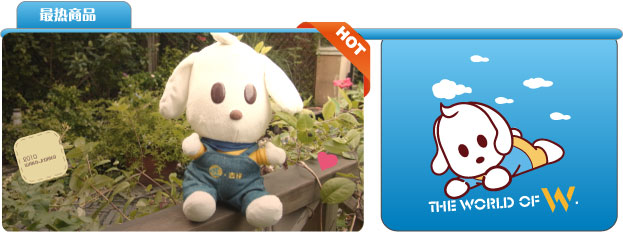
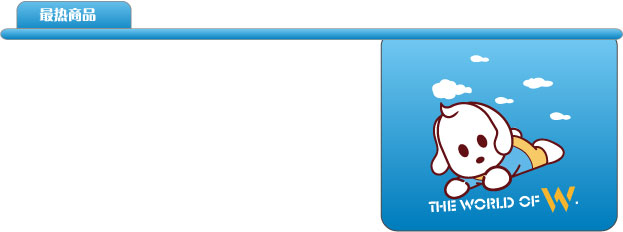
增加首页最热商品调用

diff --git a/templets/default/index.htm b/templets/default/index.htm
@@ -71,10 +71,15 @@
 		</div>
 		<div class="clear"></div>
 		<div id="hot">
-			<img src="{dede:global.cfg_templets_skin/}/images/xt_index_hot.jpg" width="623" height="232" alt="Xt Index Hot">
+			<div class="hotpic">
+				<a href="/plus/list.php?tid=2">{dede:arclist idlist='2' imgwidth='362' imgheight='200'}[field:image /]{/dede:arclist}</a>
+			</div>
+			<div class="hotico">
+				<img src="{dede:global.cfg_templets_skin/}/images/xt_ico_hot.png" width="75" height="77" alt="Xt Ico Hot">
+			</div>
 		</div>
 		<div id="hotright">
-			<a href="#"><img src="{dede:global.cfg_templets_skin/}/images/xt_blog.jpg" width="275" height="96" alt="Xt Blog"></a>
+			<a href="http://blog.sina.com.cn/wenxinwangjixiang"><img src="{dede:global.cfg_templets_skin/}/images/xt_blog.jpg" width="275" height="96" alt="Xt Blog"></a>
 			<a href="http://www.wenxindesign.com/"><img src="{dede:global.cfg_templets_skin/}/images/xt_wenxin.jpg" width="275" height="96" alt="Xt Blog"></a>
 		</div>
 		<div class="clear"></div>

diff --git a/templets/default/style/dedecms.css b/templets/default/style/dedecms.css
@@ -619,6 +619,19 @@ input,select,button{
 .pmiddle #hot{
 	float:left;
 	padding:5px 6px 0 0 ;
+	background: url('../images/xt_index_hot.jpg') no-repeat left bottom;
+	width:623px;
+	height:232px;
+	position:relative;
+}
+.pmiddle #hot .hotpic{
+	position:absolute;
+	top:37px;
+}
+.pmiddle #hot .hotico{
+	position:absolute;
+	top:26px;
+	left:294px;
 }
 .pmiddle #hotright{
 	float:right;

diff --git a/templets/default/head.htm b/templets/default/head.htm
@@ -18,6 +18,7 @@
 
 	$(document).ready(function($){
 		DD_belatedPNG.fix('#navMenu ul li a');
+		DD_belatedPNG.fix('.pmiddle #hot');
 	});
 	
 	</script>   
